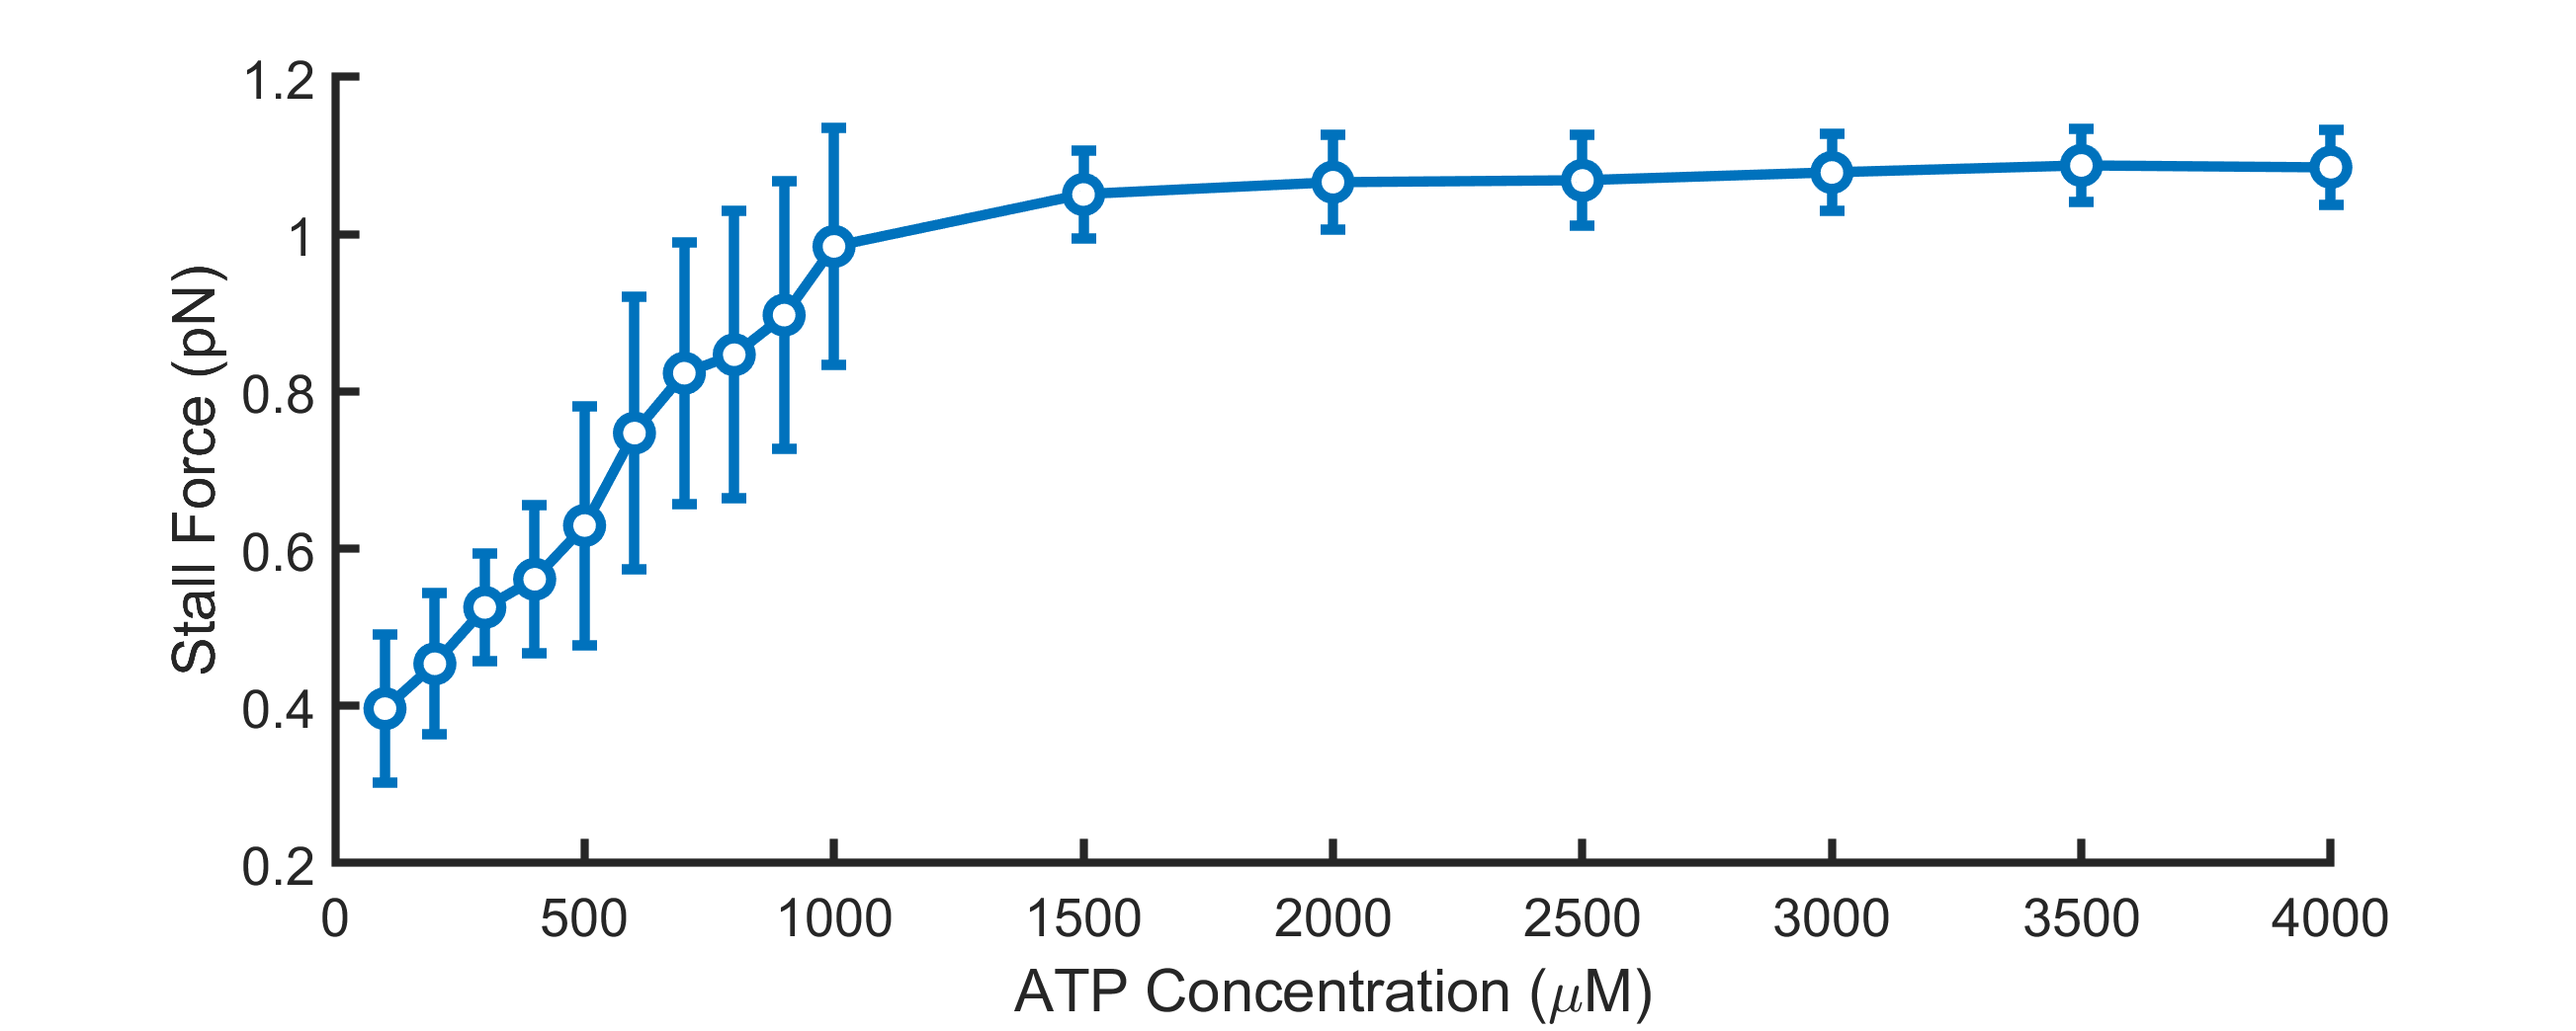
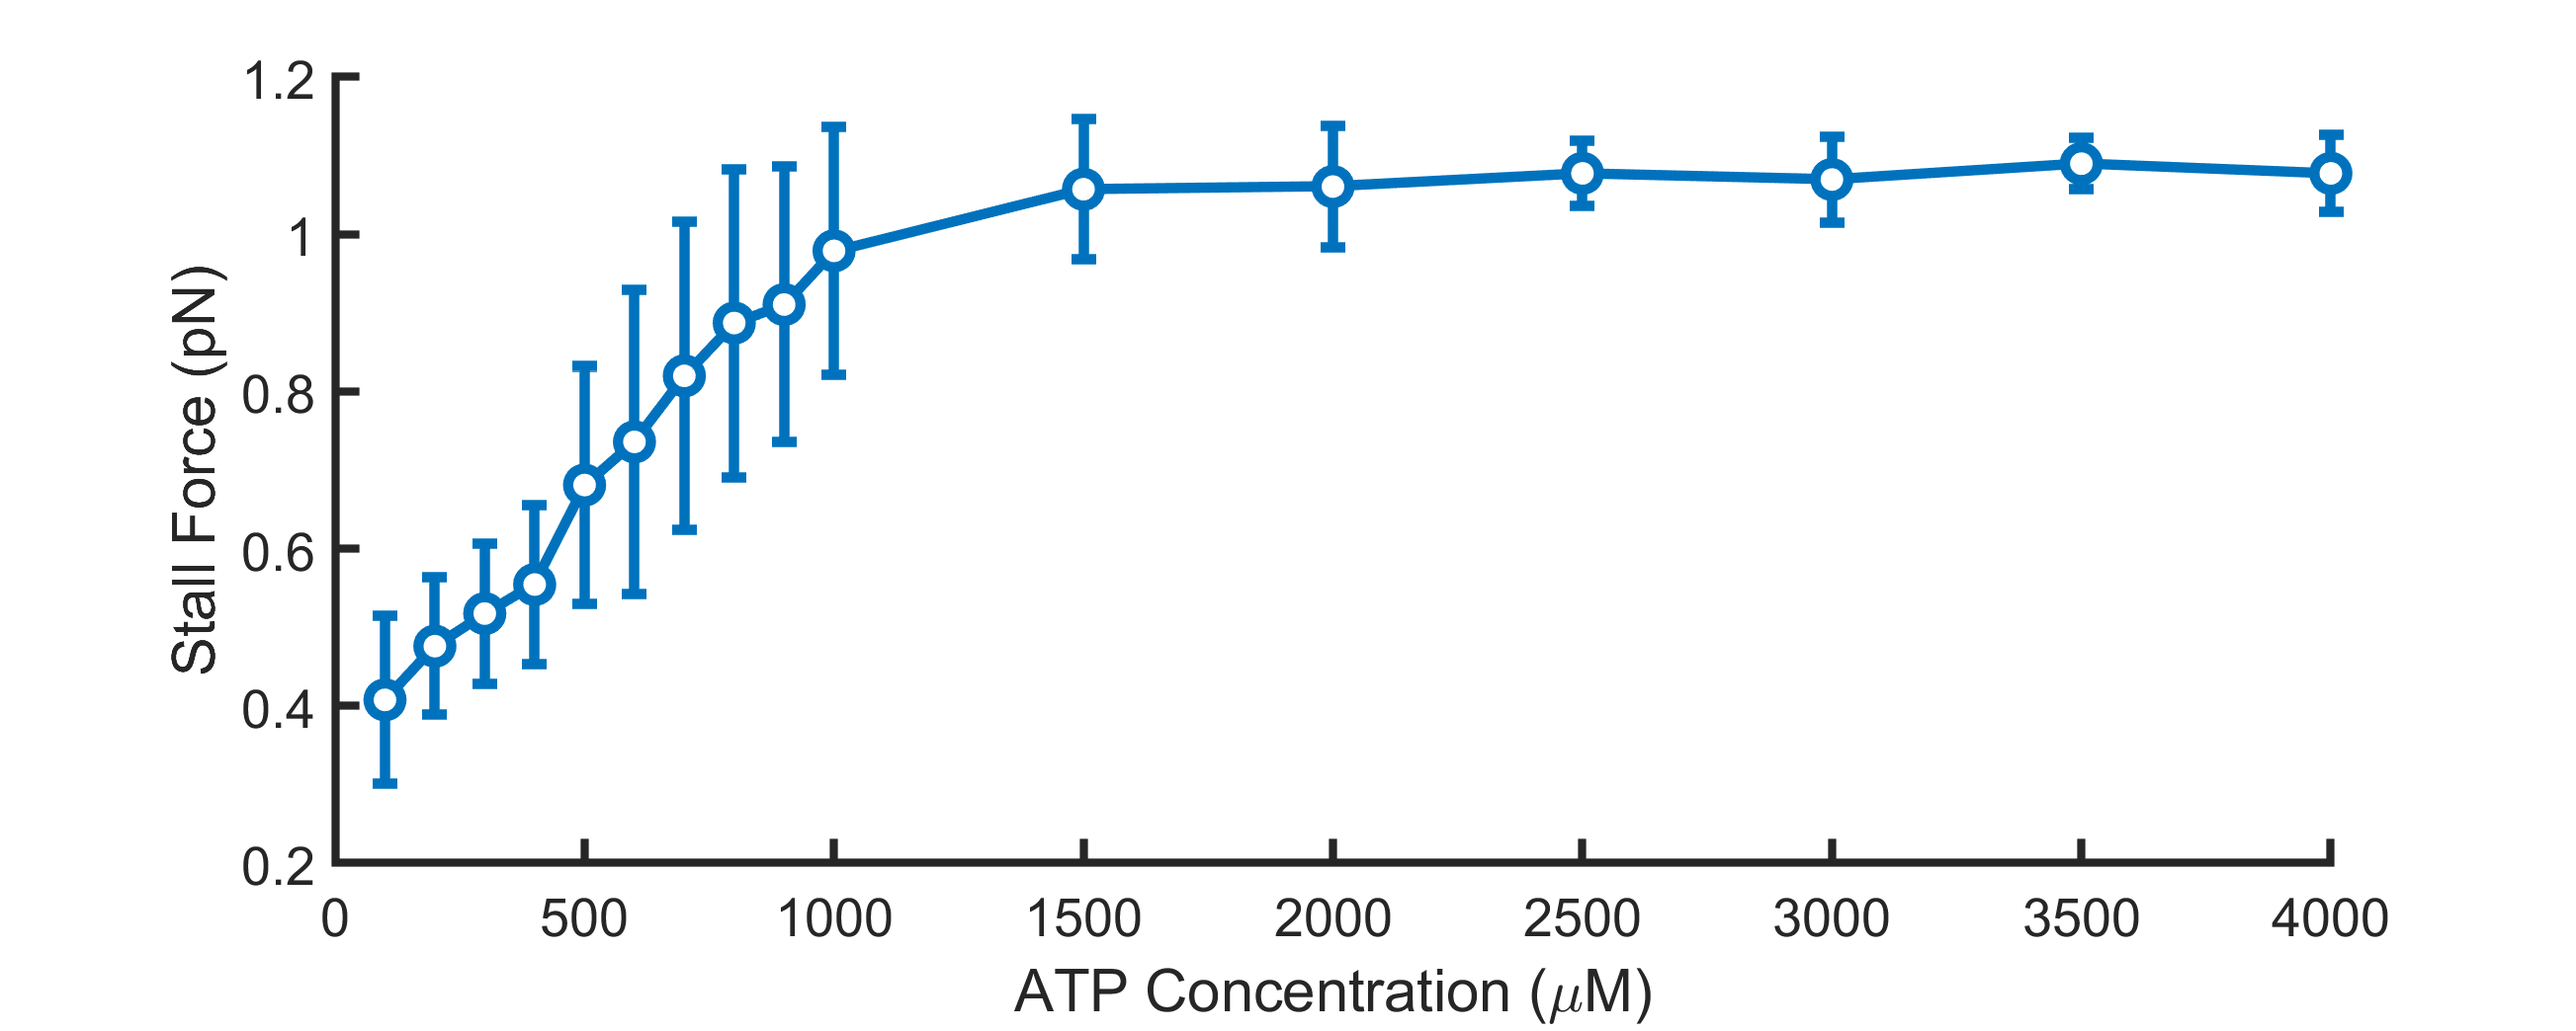
Working Version for Submission (no Modification yet)

diff --git a/Source/swain_corban_singh.m b/Source/swain_corban_singh.m
@@ -16,7 +16,7 @@ figures{2} = @fig2;
         fignum = 2;
         atpConcs = [1e-3, 400e-6];
         nTrials = length(atpConcs);
-        fprintf('\tBeginnning Simulations ... ')
+        fprintf('\tBeginnning Simulations ... ');
         [T, X] = simulate(nTrials, atpConcs, ...
                           @SinghConstants.restoringForce, ...
                           STALL_TIME, SIM_TIME);
@@ -79,7 +79,7 @@ figures{3} = @fig3;
     end % function fig3
 
 figures{5} = @fig5;
-    function fig5
+    function fb = fig5
         fignum = 5;
         loads = 0:0.05:1;
         atpConcs = [100e-6, 2e-3];
@@ -88,7 +88,7 @@ figures{5} = @fig5;
         nRepeats = 10;
         velocities = zeros(nAtpConcs, nLoads, nRepeats);
         simTime = 10; % s
-        stallTime = 5;
+        stallTime = 8;
         fprintf('\tBeginning Simulation Loop, %d Repeats ...\n', ...
                 nRepeats);
         velocSlice = zeros(nLoads,nRepeats);
@@ -159,8 +159,8 @@ figures{6} = @fig6;
         nRepeats = 10;
         
         velocities = cell(1, nLoads);        
-        simTime = 20; % s
-        stallTime = 10; %s
+        simTime = 10; % s
+        stallTime = 8; %s
         fprintf('\tBeginning Simulation Loop, %d Repeats ...\n', ...
                 nRepeats);
         for iLoad = 1:nLoads
@@ -210,7 +210,7 @@ figures{6} = @fig6;
         fb.Name = sprintf(['%d - Average Velocity vs. ', ...
                            'ATP Concentration'], ...
                           fignum);
-        fb.Position = [];
+        fb.Position = [844 87 640 392];
         fb.PlotBuilders = pb;
     end % function fig 6
 
@@ -227,12 +227,12 @@ figures{6} = @fig6;
         end
         
         CNSUtils.FigureBuilder.setDefaults;
-        figsToRun = [6];
+        figsToRun = [2, 3, 5, 6];
         for iFig = figsToRun
             fprintf('\nRunning Figure %d\n', iFig);
             fb = figures{iFig}();
             fb = figure(fb);
-            save(fb); 
+%             save(fb); 
         end % figure for loop
         fprintf('\nScript Complete!\n\n');
     end % main

diff --git a/Source/+CNSUtils/FigureBuilder.m b/Source/+CNSUtils/FigureBuilder.m
@@ -73,7 +73,7 @@ classdef FigureBuilder
                     name = [name, '-', f.Name];
                 end
             end
-            filename = ['Figures' filesep name];
+            filename = ['Figures', filesep, name, '.png'];
             print(f,filename,'-dpng','-r300');
         end % saveFigure()
         
